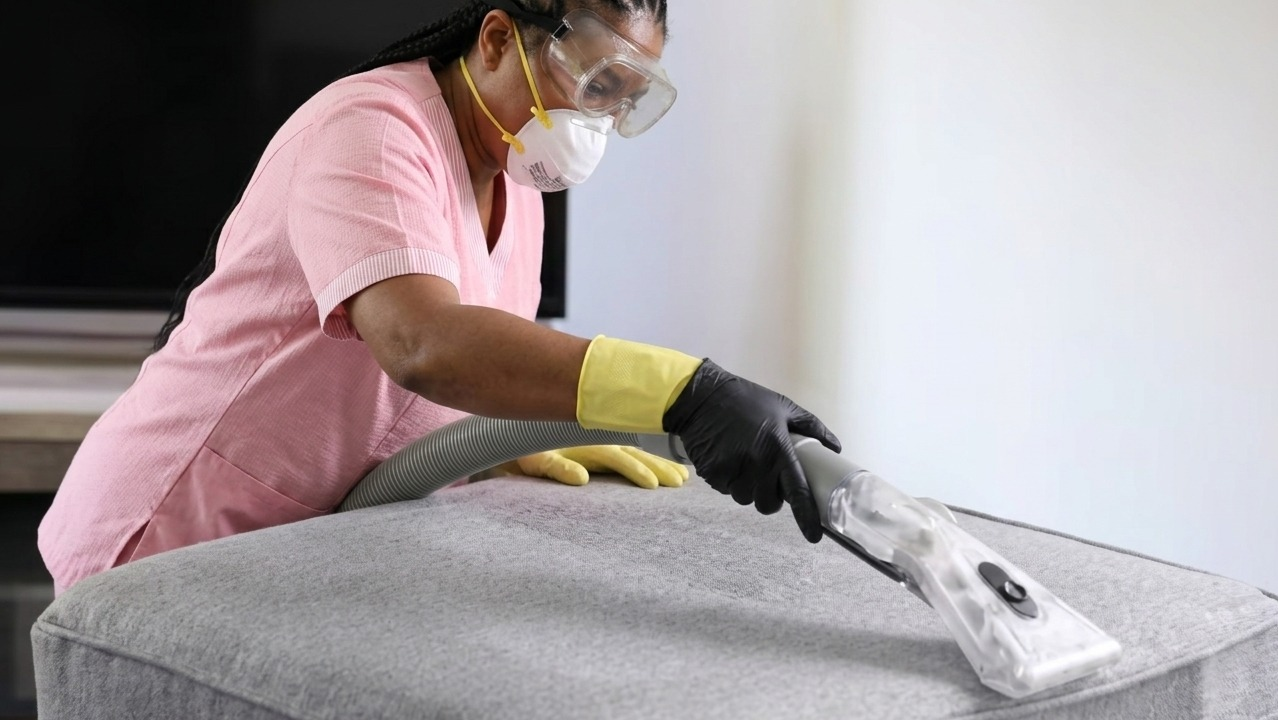
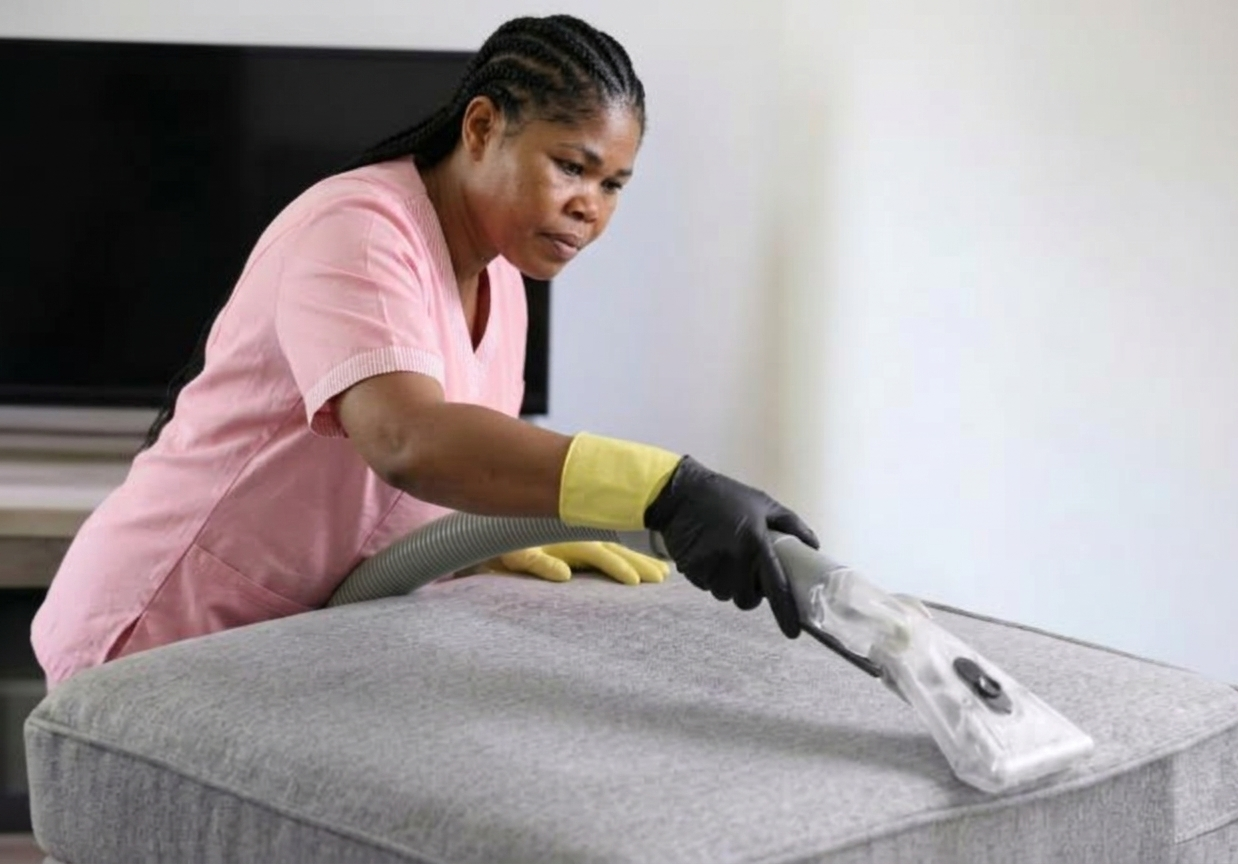
update plateforme

diff --git a/src/components/layout/Footer.jsx b/src/components/layout/Footer.jsx
@@ -1,12 +1,11 @@
 import { contact } from '../../data/contact'
-import { ArrowUpRight, Clock, Mail, Phone } from '../icons'
+import { Clock, Mail, Phone } from '../icons'
 import Reveal from '../ui/Reveal'
 import Logo from './Logo'
 
 /** Liens de la colonne « Navigation » (ancres des sections de la page). */
 const links = [
   { label: 'Accueil', href: '#accueil' },
-  { label: 'Prendre rendez-vous', href: '#contact' },
   { label: 'Prestations', href: '#prestations' },
   { label: 'Formules', href: '#tarifs' },
 ]
@@ -19,14 +18,14 @@ const infos = [
 ]
 
 /**
- * Pied de page : bandeau de réservation, colonnes (présentation, navigation, contact),
+ * Pied de page : bandeau d'appel, colonnes (présentation, navigation, contact),
  * mentions et grand logo « Pronet » coupé à mi-hauteur.
  */
 export default function Footer() {
   return (
-    <footer className="overflow-hidden bg-ink text-white">
+    <footer id="contact" className="overflow-hidden bg-ink text-white">
       <div className="mx-auto max-w-6xl px-4 pt-16 sm:px-6">
-        {/* Bandeau d'appel à l'action : réservation Google Agenda ou appel */}
+        {/* Bandeau d'appel à l'action : appel */}
         <Reveal type="zoom" className="relative flex flex-col items-start justify-between gap-8 overflow-hidden rounded-3xl bg-brand p-8 shadow-2xl shadow-brand/20 md:flex-row md:items-center md:p-12">
           {/* Cercles décoratifs */}
           <span className="pointer-events-none absolute -top-20 -right-10 size-64 rounded-full bg-white/10" />
@@ -34,21 +33,10 @@ export default function Footer() {
           <div className="relative">
             <p className="font-script text-3xl">Envie d’un intérieur soigné&nbsp;?</p>
             <p className="mt-2 text-3xl leading-tight font-black uppercase sm:text-4xl">
-              Réservez votre créneau
+              Appelez-moi
             </p>
           </div>
           <div className="relative flex flex-wrap gap-3">
-            <a
-              href={contact.bookingUrl}
-              target="_blank"
-              rel="noopener noreferrer"
-              className="shine group flex items-center gap-3 rounded-full bg-white py-2 pr-2 pl-6 text-sm font-black text-brand uppercase transition hover:bg-brand-light"
-            >
-              Réserver
-              <span className="grid size-9 place-items-center rounded-full bg-brand text-white transition group-hover:rotate-45">
-                <ArrowUpRight className="size-4" />
-              </span>
-            </a>
             <a
               href={contact.phoneHref}
               className="flex items-center gap-2 rounded-full border border-white/50 px-6 py-3 text-sm font-black transition hover:bg-white/10"

diff --git a/src/components/sections/Pricing.jsx b/src/components/sections/Pricing.jsx
@@ -3,11 +3,14 @@ import { Briefcase, Check, Home, Truck } from '../icons'
 import Blob from '../ui/Blob'
 import Reveal from '../ui/Reveal'
 
-/** Formules proposées. Les tarifs sont communiqués sur devis. */
+/** Formules proposées. Sans `price`, le tarif est communiqué sur devis. */
 const plans = [
   {
     name: 'Particuliers',
     Icon: Home,
+    price: '25 €',
+    unit: '/ heure',
+    note: 'Paiement en CESU +',
     features: ['Maison', 'Appartement', 'Ménage régulier ou ponctuel'],
   },
   {
@@ -36,7 +39,7 @@ export default function Pricing() {
       </Reveal>
 
       <div className="mt-14 grid gap-6 md:grid-cols-3">
-        {plans.map(({ name, Icon, features }, i) => (
+        {plans.map(({ name, Icon, price, unit, note, features }, i) => (
           <Reveal key={name} delay={i * 150}>
           <article
             className="flex h-full flex-col rounded-2xl border border-neutral-200 p-6 transition hover:-translate-y-1 hover:shadow-xl"
@@ -48,8 +51,10 @@ export default function Pricing() {
               {name}
             </h3>
             <p className="mt-5">
-              <span className="text-3xl font-black">Sur devis</span>
+              <span className="text-3xl font-black">{price ?? 'Sur devis'}</span>
+              {unit && <span className="ml-1 text-sm font-bold text-neutral-500">{unit}</span>}
             </p>
+            {note && <p className="mt-1 text-xs font-bold tracking-wide text-brand uppercase">{note}</p>}
             <ul className="mt-6 mb-7 space-y-3 text-sm text-neutral-600">
               {features.map((f) => (
                 <li key={f} className="flex items-center gap-3">

diff --git a/src/App.jsx b/src/App.jsx
@@ -1,6 +1,5 @@
 import Footer from './components/layout/Footer'
 import Navbar from './components/layout/Navbar'
-import BookingBar from './components/sections/BookingBar'
 import Commitments from './components/sections/Commitments'
 import Hero from './components/sections/Hero'
 import HowItWorks from './components/sections/HowItWorks'
@@ -27,7 +26,6 @@ export default function App() {
       {/* overflow-x-clip : les décors qui débordent ne créent pas de défilement horizontal */}
       <main className="overflow-x-clip">
         <Hero />
-        <BookingBar />
         <Services />
         <WhyChooseMe />
         <HowItWorks />

diff --git a/src/components/sections/HowItWorks.jsx b/src/components/sections/HowItWorks.jsx
@@ -185,17 +185,6 @@ export default function HowItWorks() {
             </div>
           </div>
         </div>
-
-        <div className="text-center">
-          <a
-            href={contact.bookingUrl}
-            target="_blank"
-            rel="noopener noreferrer"
-            className="shine inline-block rounded-full bg-brand px-6 py-2.5 text-sm font-bold text-white transition hover:bg-brand-dark"
-          >
-            Réserver un ménage
-          </a>
-        </div>
       </div>
     </section>
   )

diff --git a/src/data/contact.js b/src/data/contact.js
@@ -12,9 +12,4 @@ export const contact = {
   phoneHref: 'tel:+33656820934',
   email: 'fidelemabad@yahoo.fr',
   hours: 'Du lundi au vendredi',
-  /**
-   * Page de réservation Google Agenda (« agenda de prise de rendez-vous »).
-   * Google gère les créneaux libres et ajoute chaque réservation à l'agenda.
-   */
-  bookingUrl: 'https://calendar.app.google/CwXVJUByXghPznMb7',
 }
